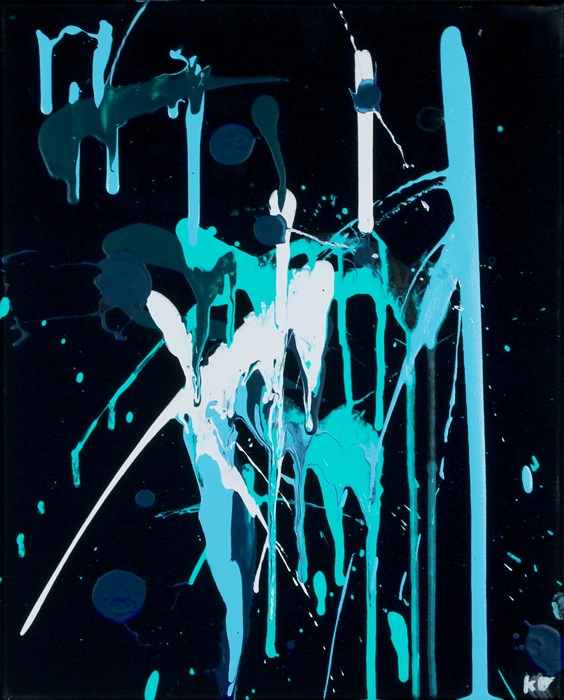
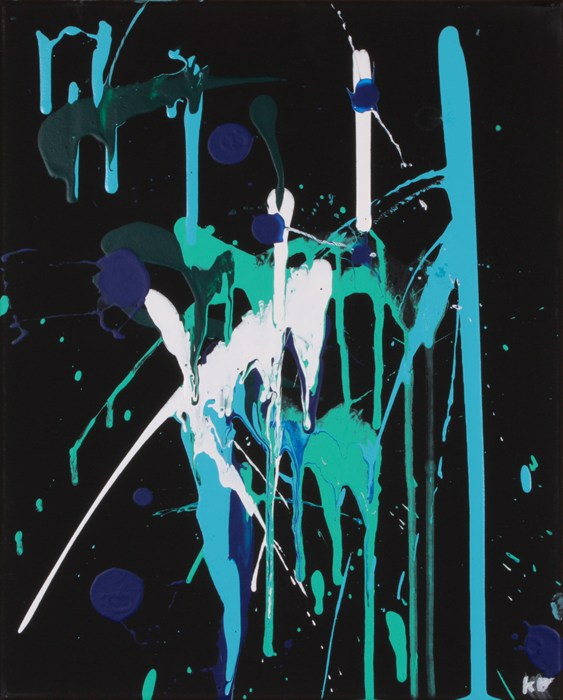
more art added

diff --git a/assets/js/art-database.js b/assets/js/art-database.js
@@ -83,7 +83,7 @@ var artDatabase = {
         thumb: "assets/Art/thumbs/HollowSoul.jpg",
         date: "November 19, 2025",
         size: "36\"x26\"",
-        award: "This painting sold for $300 USD and is now privately owned"
+        award: "Privately owned"
     },
     "ChildsPlay.png": {
         title: "Child's Play",
@@ -156,5 +156,62 @@ var artDatabase = {
         date: "August 6, 2026",
         size: "16\"x20\"",
         award: "No current information"
+    },
+    "Comics.png": {
+        title: "Comics",
+        image: "assets/Art/Comics.png",
+        thumb: "assets/Art/thumbs/Comics.jpg",
+        date: "August 13, 2026",
+        size: "20\"x16\"",
+        award: "No current information"
+    },
+    "OilSpill.png": {
+        title: "Oil Spill",
+        image: "assets/Art/OilSpill.png",
+        thumb: "assets/Art/thumbs/OilSpill.jpg",
+        date: "August 13, 2026",
+        size: "16\"x20\"",
+        award: "No current information"
+    },
+    "MixedFeelings.png": {
+        title: "Mixed Feelings",
+        image: "assets/Art/MixedFeelings.png",
+        thumb: "assets/Art/thumbs/MixedFeelings.jpg",
+        date: "August 13, 2026",
+        size: "7\"x5\"",
+        award: "No current information"
+    },
+    "WrongImpressions.png": {
+        title: "Wrong Impressions",
+        image: "assets/Art/WrongImpressions.png",
+        thumb: "assets/Art/thumbs/WrongImpressions.jpg",
+        date: "August 13, 2026",
+        size: "20\"x16\"",
+        award: "No current information"
+    },
+    "LinesLikeDots.png": {
+        title: "Lines Like Dots",
+        image: "assets/Art/LinesLikeDots.png",
+        thumb: "assets/Art/thumbs/LinesLikeDots.jpg",
+        date: "August 13, 2026",
+        size: "16\"x20\"",
+        award: "No current information"
+    },
+    "GalaxyOnFire.png": {
+        title: "Galaxy On Fire",
+        image: "assets/Art/GalaxyOnFire.png",
+        thumb: "assets/Art/thumbs/GalaxyOnFire.jpg",
+        date: "August 13, 2026",
+        size: "20\"x16\"",
+        award: "This painting sold for $300 USD and is now privately owned"
+    },
+    "Drip32.png": {
+        title: "Drip 32",
+        image: "assets/Art/Drip32.png",
+        thumb: "assets/Art/thumbs/Drip32.jpg",
+        date: "August 13, 2026",
+        size: "?\"x?\"",
+        award: "No current information"
     }
+    
 };
